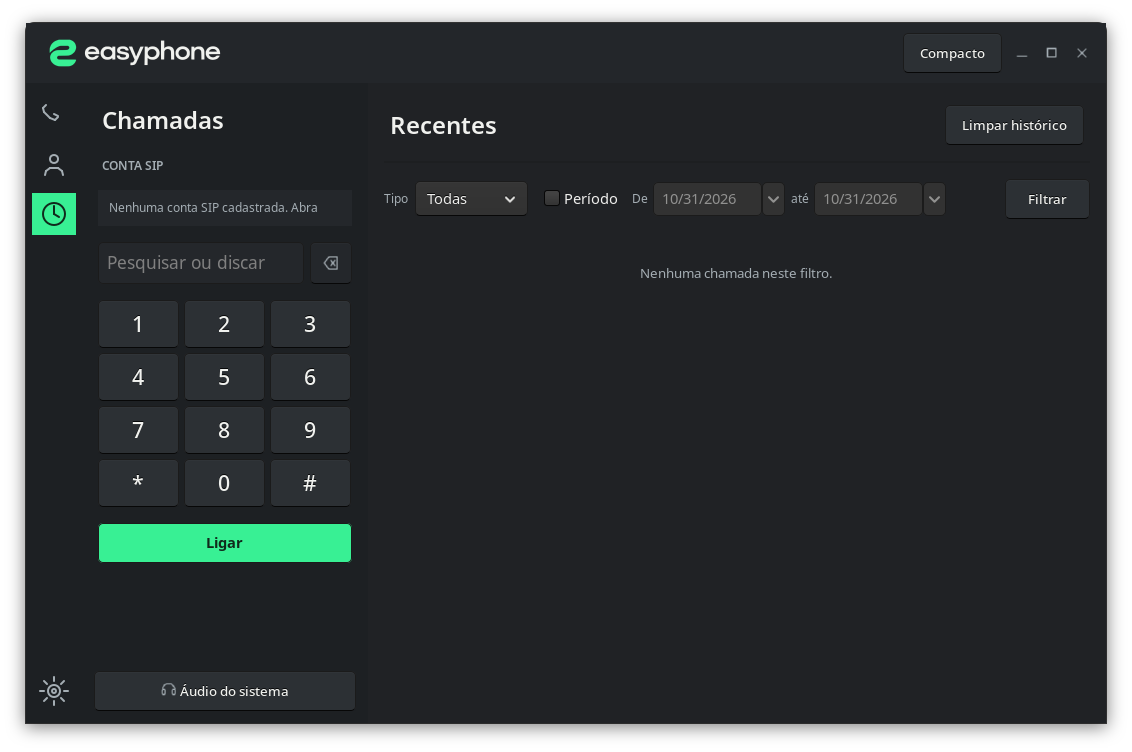
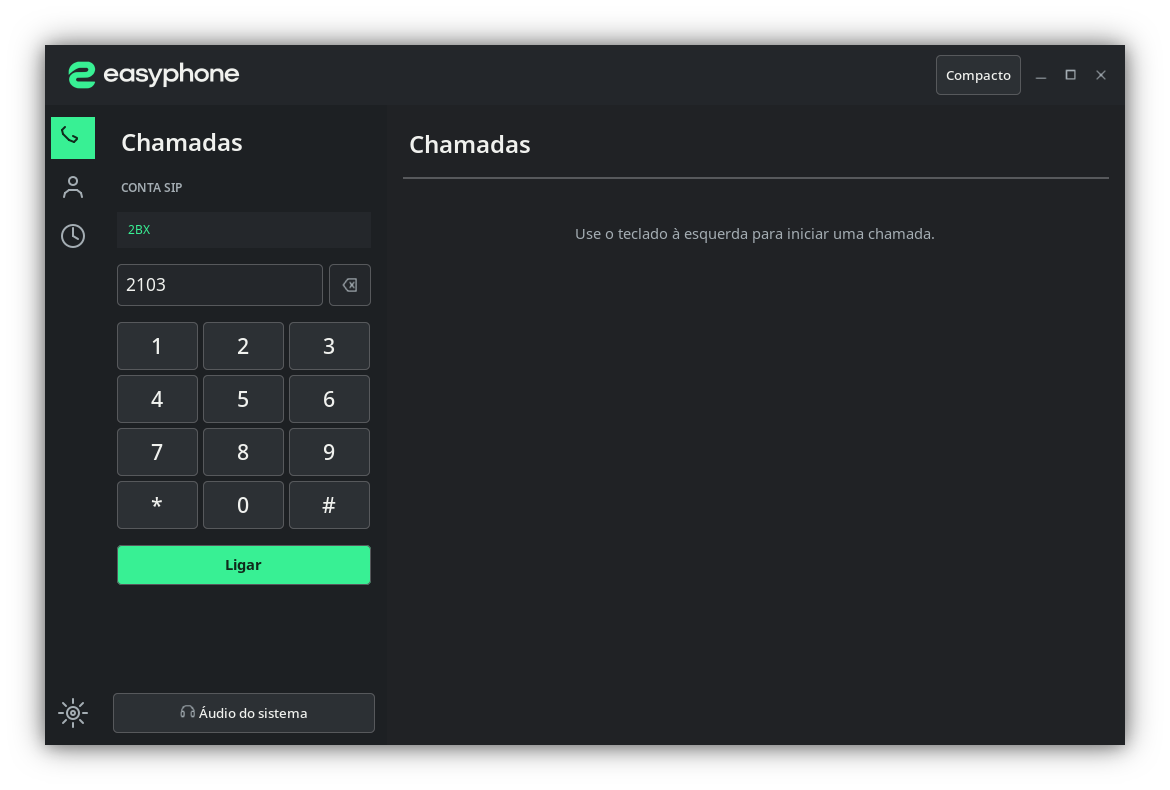
Add populated product interface screenshot gallery

diff --git a/README.md b/README.md
@@ -2,9 +2,33 @@
 
 O easyphone é um softphone SIP para desktop, desenvolvido pela equipe 2BX. Reunimos discagem, chamadas, contatos, histórico e controles de áudio em uma interface nativa, com suporte a contas SIP convencionais.
 
-![Captura real do easyphone em execução no Linux, com discador e histórico recente](docs/screenshots/easyphone-linux-discador.png)
+## Interfaces do produto
 
-Captura da versão Linux atual. O perfil de demonstração está sem uma conta SIP cadastrada.
+Capturas da interface nativa em execução no Linux. Todos os nomes, ramais, contas e dispositivos abaixo são dados fictícios de demonstração.
+
+| Discador | Contatos |
+|---|---|
+| ![Discador com número de demonstração](docs/screenshots/easyphone-linux-discador.png) | ![Lista de contatos de demonstração](docs/screenshots/easyphone-linux-contatos.png) |
+
+| Recentes | Chamada recebida |
+|---|---|
+| ![Histórico de chamadas de demonstração](docs/screenshots/easyphone-linux-recentes.png) | ![Chamada recebida de Marina Costa](docs/screenshots/easyphone-linux-chamada-recebida.png) |
+
+| Chamada ativa | Chamada em espera |
+|---|---|
+| ![Controles de chamada ativa](docs/screenshots/easyphone-linux-chamada-ativa.png) | ![Chamada em espera com áudio silenciado](docs/screenshots/easyphone-linux-chamada-em-espera.png) |
+
+| Discador compacto | Chamada ativa compacta |
+|---|---|
+| ![Discador no modo compacto](docs/screenshots/easyphone-linux-compacto-discador.png) | ![Chamada ativa no modo compacto](docs/screenshots/easyphone-linux-compacto-chamada-ativa.png) |
+
+| Chamada recebida compacta | Contas SIP |
+|---|---|
+| ![Chamada recebida no modo compacto](docs/screenshots/easyphone-linux-compacto-chamada-recebida.png) | ![Configurações com contas SIP fictícias](docs/screenshots/easyphone-linux-configuracoes-contas.png) |
+
+| Dispositivos de áudio |
+|---|
+| ![Configurações de áudio com dispositivos de demonstração](docs/screenshots/easyphone-linux-configuracoes-audio.png) |
 
 ## Download
 

diff --git a/CHANGELOG.md b/CHANGELOG.md
@@ -7,5 +7,6 @@
 - Instalador portátil registra o aplicativo no menu e cria atalho na área de trabalho quando disponível.
 - Bandeja do sistema mantém o softphone ativo quando a janela é minimizada ou fechada.
 - Desinstalador portátil remove os arquivos do aplicativo e preserva as contas e preferências do usuário.
+- README inclui capturas reais das telas, modos compacto/normal e chamadas, com dados fictícios de demonstração.
 
 Este lançamento cobre somente Linux x86_64. Consulte a matriz de plataformas para limitações e próximos alvos.
